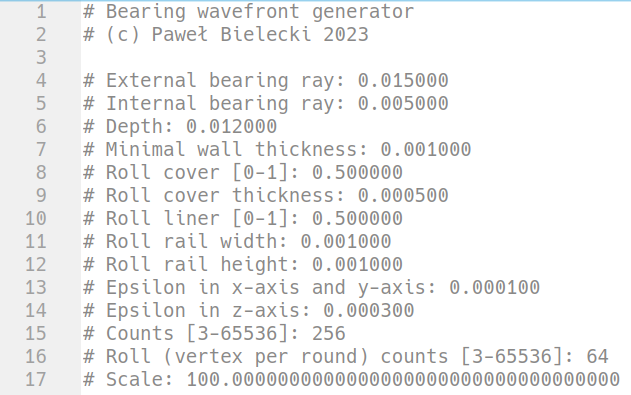
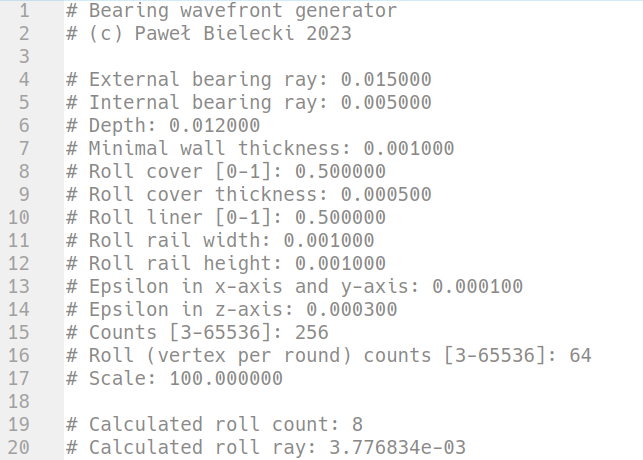
Updated scale printing

Changed region(s): [[0.0, 0.0, 1.0, 1.0]]

diff --git a/src/wf.c b/src/wf.c
@@ -204,7 +204,7 @@ int main()
     fprintf(stdout, "# Scale: ");
     fflush(stdout);
     scale = fabs(scanDoubleDef(100));
-    fprintf(stdout, "%.34lf\n", scale);
+    fprintf(stdout, "%lf\n", scale);
     
     double rayToRollCenter = (r + R) / 2;
     int nroll = 2;

diff --git a/README.md b/README.md
@@ -15,6 +15,7 @@ See the `examples` for the input format.
 
 Below is the order of the input data:
 ![](doc/screen0.png)
+`Calculated roll count` and `Calculated roll ray` are generated automatically.
 
 
 ## Dimensions
